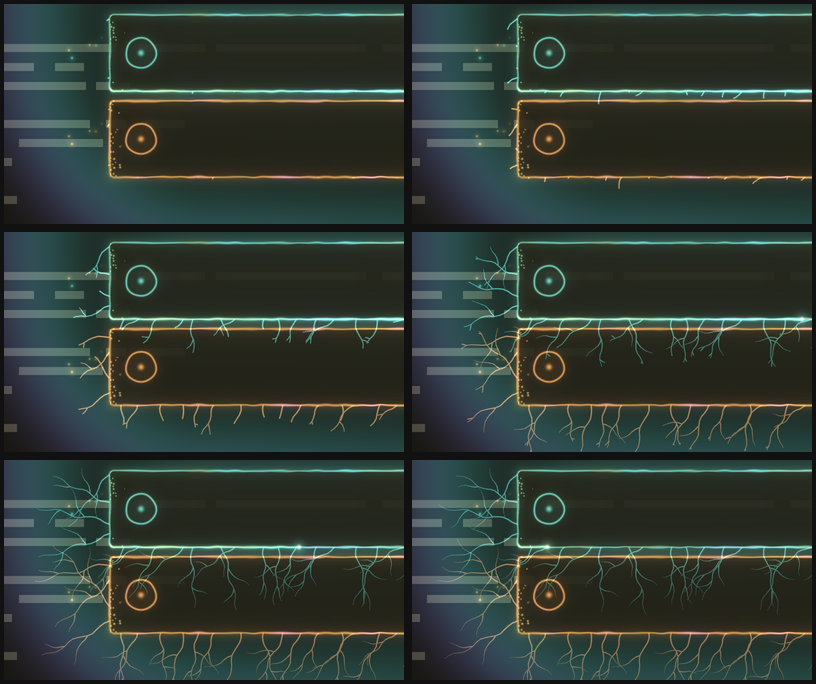
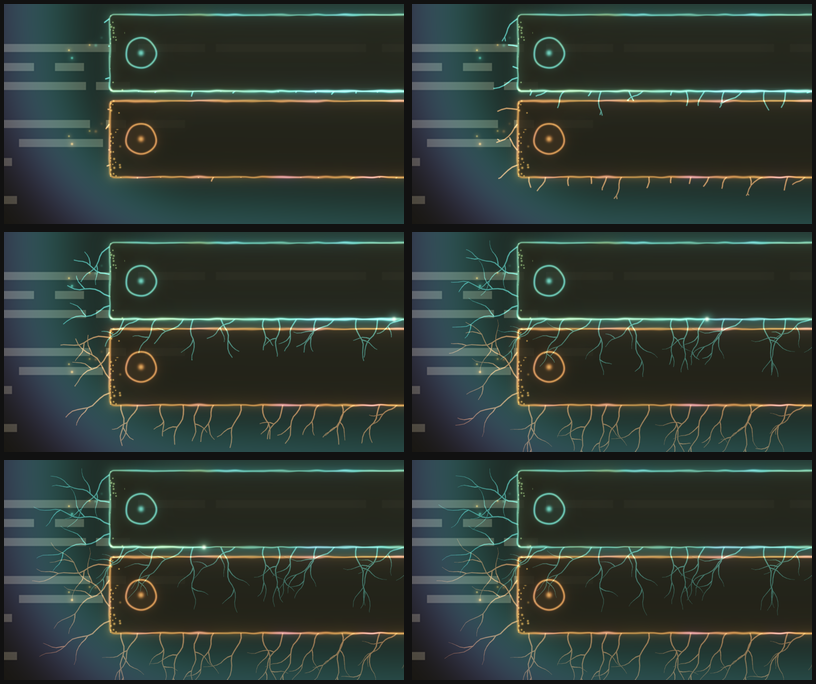
Growth: keep the roots visibly growing until the countdown ends
The exponential ease was visually finished after about four seconds (under 2 px/s), so the roots seemed to stop well before
the countdown did. A quarter of the curve is now a gentle ease-out (1 - (1-t)^1.5) that keeps moving and stops exactly at the end,
and roots finish at 97 to 99.5% of the life instead of 94 to 99%. Measured on the compiled shader for an 8 s toast: 28% after 1 s,
54% after 2, 72% after 3, 84% after 4, 91% after 5, 96% after 6, 99% after 7 (it was 35, 62, 82, 92, 96, 99, 100).

diff --git a/AGENTS.md b/AGENTS.md
@@ -249,7 +249,7 @@ Plan: the exit dissolves into spores, and a faint drift off a card. Both are bui
 
 `look=growth` in the fork's conf file (parsed by `parseLook`, `blend` otherwise) makes `ToastRim` load `shaders/toastgrowth.frag`
 instead of `toastrim.frag`; same overlay, same added-light output, same uniforms plus `seed` (random per toast) and `growth`
-(0 to 1: how far through its life the toast is, from `1 - remaining` and never decreasing, so the roots grow over the whole life, each with its own start and finish, the last by 94%, via `rootReach` in the shader: a burst over the first ~1 s with a slow creep after; a toast without a countdown, i.e. critical, animates it over 8 s times `motion_slowdown`). `ToastRim`'s margin is 110 px for the roots. Both shaders declare the **same uniform
+(0 to 1: how far through its life the toast is, from `1 - remaining` and never decreasing, so the roots grow over the whole life, each with its own start and finish, the last by 99.5%, via `rootReach` in the shader: a burst over the first ~1 s with a slow creep after; a toast without a countdown, i.e. critical, animates it over 8 s times `motion_slowdown`). `ToastRim`'s margin is 110 px for the roots. Both shaders declare the **same uniform
 set** (the blend's `seed` and `growth` are unused) so `ToastRim`'s ShaderEffect feeds either; `shader-test.sh` and
 `growth-test.sh` both check that. What the design does and why (the mock-up's wavy outline and ragged strip read as glitches, so
 the outline stays straight and is alive instead; lichen is jittered dots; veins are curves with branches that cannot reach the
@@ -274,13 +274,16 @@ fix before releasing.
 committed **without running the tests** at the user's request: `test/growth-test.sh` treats `growth` as an arrival animation (growth 0.5 = half
 grown) and the vein regions assume the old lengths and the 30 px left margin of its overlay; expect to revisit it.
 
-**Roots, rounds 4 to 6:** the growth curve was judged wrong five times live (see `docs/design/README.md` for the list), most recently
-for "still pretty linear". It is now `easeGrowth` in the shader: `smoothstep(0, 0.15, t) * (1 - exp(-5t)) / (1 - exp(-5))` per root between
-its start (first 8% of the life) and its finish (94 to 99%). A cubic Bezier (what it was) cannot be both fast in the body and decisive
-at the end; an exponential slowdown has a constant speed ratio per unit time, which is what reads as natural. Lessons: prototype curves
-numerically against target samples (1, 2, 3, 4, 6 s of an 8 s toast) *and the speed at 1 s against the speed at 5 s* before touching the
-shader, then measure the compiled shader's reach at the same points (render at `U_growth=g` with the card at x=130 in `test/shader-harness.c` and take the leftmost lit pixel); a linear component makes the curve look
-linear whatever the rest does; and an ease-in is what stops a pop. The lengths: the roots are 1.4 to 2.0 times the old length on the left and 1.1 to 1.7 on the bottom, with 16 steps per trunk. Cost
+**Roots, rounds 4 to 7:** the growth curve was judged wrong six times live (see `docs/design/README.md` for the list). It is now `easeGrowth`
+in the shader: `smoothstep(0, 0.15, t) * (0.75 * (1 - exp(-5t)) / (1 - exp(-5)) + 0.25 * (1 - (1-t)^1.5))` per root between its start
+(first 8% of the life) and its finish (97 to 99.5%). A cubic Bezier cannot be both fast in the body and decisive at the end; an
+exponential slowdown has a constant speed ratio per unit time, which is what reads as natural, but alone it is *visually finished* after
+about four seconds (speed under 2 px/s), so a quarter of the curve is a gentle ease-out that keeps moving to the end. Lessons: prototype
+curves numerically against target samples (1, 2, 3, 4, 6 s of an 8 s toast) *and the speed in px/s at 1, 2, 3, 5 and 7 s* (a speed under
+about 2 px/s does not read as growth) before touching the shader, then measure the compiled shader's reach at the same points (render at
+`U_growth=g` with the card at x=130 in `test/shader-harness.c` and take the leftmost lit pixel; the stagger of starts makes the measured
+body a few points slower than the ideal curve); a linear component makes the curve look linear whatever the rest does, but a small one
+rescues a dead tail; and an ease-in is what stops a pop. The lengths: the roots are 1.4 to 2.0 times the old length on the left and 1.1 to 1.7 on the bottom, with 16 steps per trunk. Cost
 went up (a vein is now ~45 loop iterations; `vein()` returns early beyond its grown radius). Untested apart from renders.
 
 ## Conventions

diff --git a/docs/design/README.md b/docs/design/README.md
@@ -65,16 +65,17 @@ mock-up C, whose wavy outline and ragged strip read as glitches:
   bottom edge (about one per 20 px of its width, 53 to 82 px; under a toast with another below they pass behind it, and under the
   last toast the screen is free). Those near the top lean down and those near the bottom lean up, so they stay in the card's band.
   **Growth runs over the toast's whole life**: each root starts at its own moment in the first 8% of it and finishes at its own
-  between 94% and 99%, so the last is done just before the countdown completes. Its shape is an exponential slowdown
-  (1 - exp(-5t), normalised) with a short ease-in over the first 15% of its window: fast for most of the growth (the speed holds
-  through the first second or so), then falling by the same ratio in each stretch of time, a hard but natural slowdown, to a creep
-  at the end. Measured on the compiled shader for an 8 s toast, the left roots' reach is 0% after 0.25 s, 9% after 0.5, 35% after 1,
-  52% after 1.5, 62% after 2, 82% after 3, 92% after 4 and 99% after 6. `growth-stages.png`: 4%, 8%, 14%, 25%, 50% and 92% of the
-  life. Earlier versions, each judged wrong live: one root per corner in 1.5 s; ease-out of power 2 (not dramatic); power 3.5 (fine, but
-  it then froze); a burst of 74% in a second plus a creep (snapped into place, and done by 80 to 94% of the life); 50% ease-out plus
-  50% linear (popped at the start, too linear); a cubic Bezier (0.09,0.10 / 0.20,0.96: eased in well, but "still pretty linear":
-  its speed fell only fivefold from 1 s to 5 s, and no cubic Bezier could be both faster in the body and harder at the end).
-  Fainter veins grow across the card from its right corners.
+  between 97% and 99.5%, so the last is done just before the countdown completes. Its shape is three parts exponential slowdown
+  (1 - exp(-5t), normalised: the speed falls by the same ratio in each stretch of time, a hard but natural slowdown) and one part a
+  gentle ease-out (1 - (1-t)^1.5: it keeps going and stops exactly at the end), with a short ease-in over the first 15% of its window.
+  Measured on the compiled shader for an 8 s toast, the left roots' reach is 0% after 0.5 s (staggered starts), 28% after 1 s,
+  54% after 2, 72% after 3, 84% after 4, 91% after 5, 96% after 6 and 99% after 7. `growth-stages.png`: 6%, 12.5%, 25%, 50%, 75%
+  and 97% of the life. Earlier versions, each judged wrong live: one root per corner in 1.5 s; ease-out of power 2 (not dramatic);
+  power 3.5 (fine, but it then froze); a burst of 74% in a second plus a creep (snapped into place, and done by 80 to 94% of the
+  life); 50% ease-out plus 50% linear (popped at the start, too linear); a cubic Bezier (eased in well, "still pretty linear": its
+  speed fell only fivefold from 1 s to 5 s); a pure exponential (liked: fast, hard slowdown, but it moved by under 2 px/s after four
+  seconds, so it "mostly stopped growing well before the countdown finished"; the 25% gentle part fixed that at the cost of a body a
+  few points slower: 28% after a second instead of 35%). Fainter veins grow across the card from its right corners.
 - **The countdown is the bottom border itself, lit**: drawn from the same distance field and sway as the outline, so it lies
   exactly on it and the two read as one line (the first version ran 3 px above the border, which the user saw as two lines).
   Where there is time left the border is brighter and thicker, its thickness undulating along it like a vein; the part that has run

diff --git a/docs/runbooks/live-checklist.md b/docs/runbooks/live-checklist.md
@@ -178,11 +178,11 @@ flipping between the two with the same notifications. The design is `docs/design
       and teal, and a slow pulse of light travels round it; the outline is **straight**, not wavy
 - [ ] **roots** (with side branches) hang from the left edge (about one per 18 px of height, so sparser than before) and the bottom
       edge (one per 20 px), longer than before; those on the left are not denser than those below
-- [ ] the growth **eases in** (no pop when a toast arrives), is **fast for most of the growth**, then **slows down hard** and
-      creeps toward the end: about a third of the length after a second, three fifths after two, over four fifths after
-      three, and nearly all by four seconds; it does not look linear; roots start a little apart; the last finish just before the
-      countdown line does (the growth freezes with the countdown while you hover; an update that restarts the countdown does not
-      shrink them; a critical toast, which has no countdown, grows them over about eight seconds)
+- [ ] the growth **eases in** (no pop when a toast arrives), is **fast for most of the growth**, then **slows down hard**, but
+      **keeps visibly growing until close to the end of the countdown** (about a quarter of the length after a second, over half
+      after two, over four fifths after four, still creeping at six); it does not look linear; roots start a little apart; the last
+      finish just before the countdown line does (the growth freezes with the countdown while you hover; an update that restarts
+      the countdown does not shrink them; a critical toast, which has no countdown, grows them over about eight seconds)
 - [ ] they are **long** (left ones up to about 95 px, bottom ones up to about 80 px) and do not look cut off at the end; with
       several toasts at once nothing stutters (the roots are the most expensive part of the shader: say if it does)
 - [ ] fainter veins grow across the card from its right corners; none cross onto the toast below. Under a toast with another
